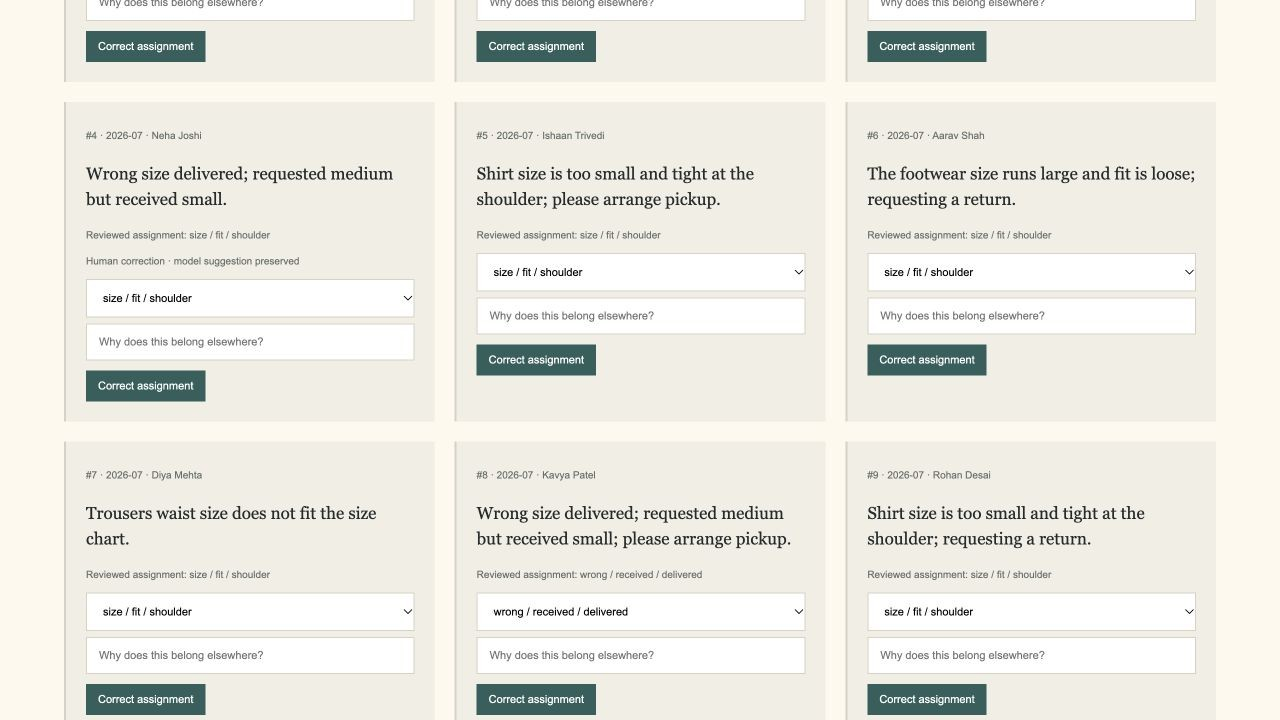
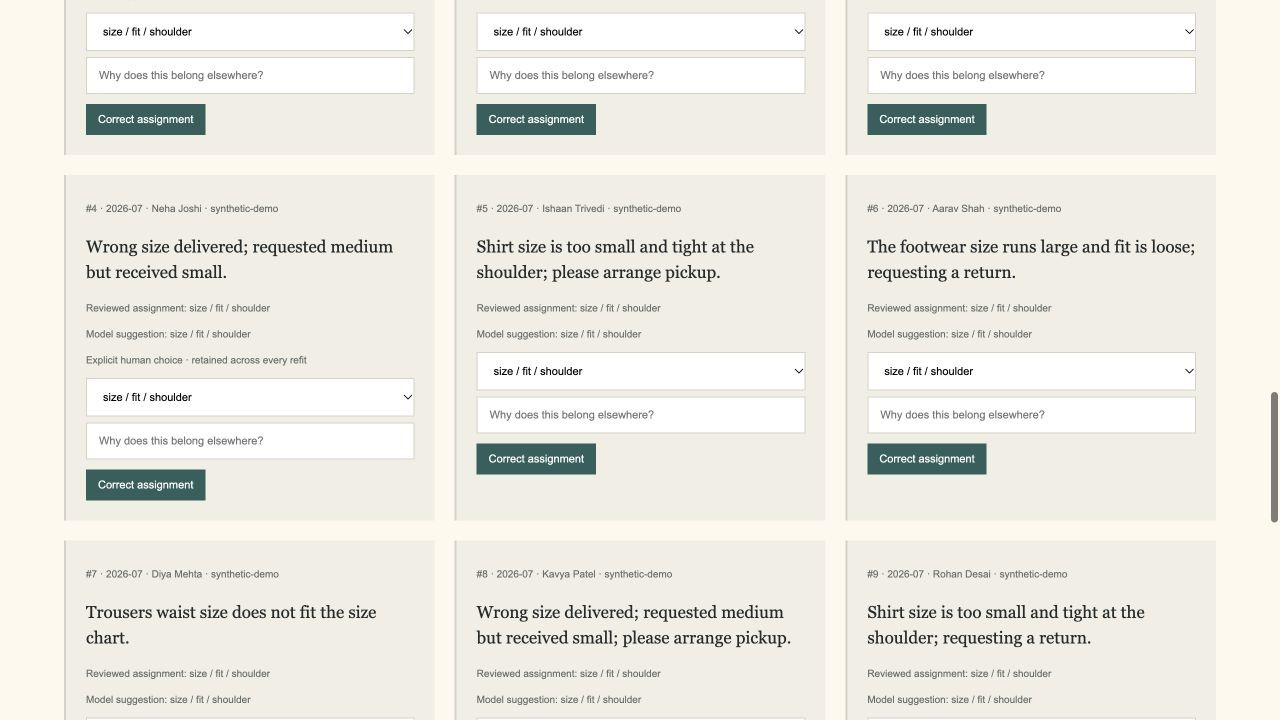
docs: refresh human-review screenshots and migrated-import verification

diff --git a/docs/BROWSER_CHECKS.md b/docs/BROWSER_CHECKS.md
@@ -8,4 +8,6 @@ The application was exercised locally on macOS with Python 3.12, through the act
 
 All six apps were checked at a 390×844 viewport; this app's document width was 390px with no horizontal overflow. The temporary viewport was reset after the check. The fresh final app load reported no JavaScript errors. Desktop and mobile captures can show different points in the walkthrough.
 
-Automated regression suite: **45 passing tests**. The README describes test scope and measured coverage. These checks do not establish production scale or complete security coverage.
+Automated regression suite: **50 passing tests**. The README describes test scope and measured coverage. These checks do not establish production scale or complete security coverage.
+
+A later review verified that an explicit correction remains identified even when the model agrees with it after refitting. A new CSV row imported into the migrated workspace was tagged `user-import`; older unmatched legacy records stayed `legacy-unclassified`. Fitting then included all 99 comments. The regression suite independently tests agreement followed by divergence across two fits, and migrated CSV/JSON imports.
